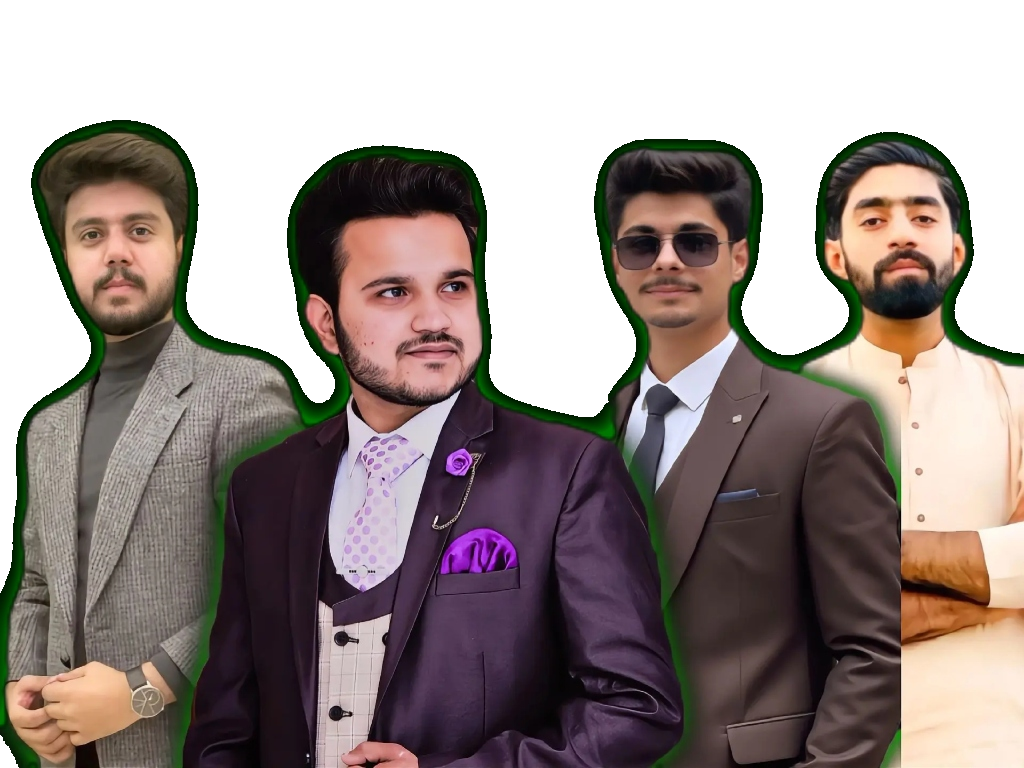
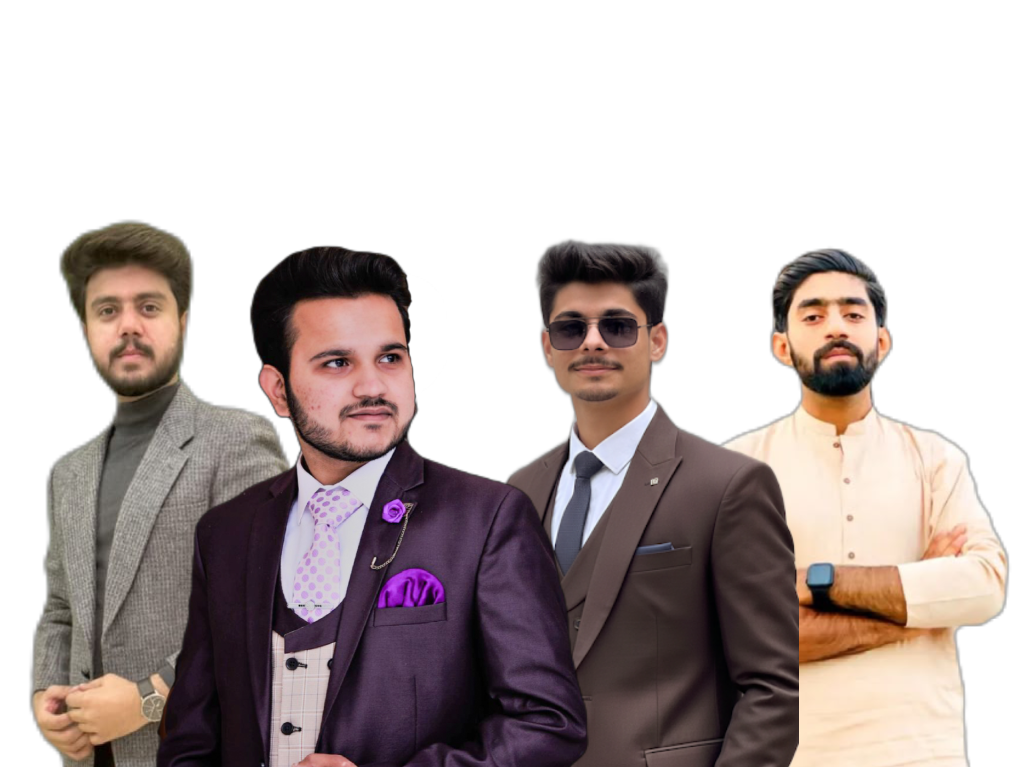
Fix Netlify 404 with static export and netlify.toml

diff --git a/website/remove_white_bg.py b/website/remove_white_bg.py
@@ -1,0 +1,48 @@
+from PIL import Image
+
+def flood_fill_transparent(image_path, output_path, threshold=200): # High threshold to catch off-whites
+    img = Image.open(image_path).convert("RGBA")
+    width, height = img.size
+    pixels = img.load()
+    
+    # Target color to replace (white)
+    target_color = (255, 255, 255)
+    
+    # Visited set
+    visited = set()
+    
+    # Stack for flood fill
+    stack = [(0, 0), (width-1, 0), (0, height-1), (width-1, height-1)]
+    
+    def is_similar(c1, target):
+        return c1[0] >= threshold and c1[1] >= threshold and c1[2] >= threshold
+    
+    while stack:
+        x, y = stack.pop()
+        
+        if x < 0 or x >= width or y < 0 or y >= height:
+            continue
+            
+        if (x, y) in visited:
+            continue
+            
+        visited.add((x, y))
+        
+        current_color = pixels[x, y]
+        
+        # Also, check if it's already transparent, then continue flood filling
+        if current_color[3] == 0 or is_similar(current_color, target_color):
+            # Make transparent
+            pixels[x, y] = (0, 0, 0, 0)
+            
+            # Add neighbors
+            stack.append((x + 1, y))
+            stack.append((x - 1, y))
+            stack.append((x, y + 1))
+            stack.append((x, y - 1))
+
+    img.save(output_path, "PNG")
+    print(f"Saved transparent image to {output_path}")
+
+if __name__ == "__main__":
+    flood_fill_transparent("public/images/founders/group_raw.png", "public/images/founders/group.png", threshold=245)
